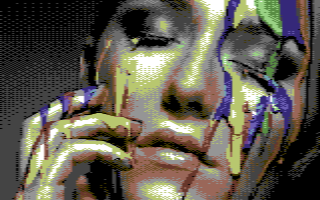
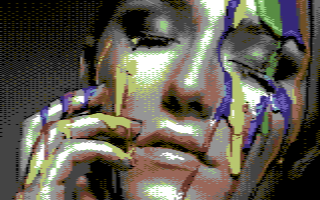
Refactoring for parameterized colorspace. Reverted back to RGB (no conversion of colorspace) Not adding the option to cli because I don't really understand colorspaces yet.

diff --git a/src/conversion/Quantizer.ts b/src/conversion/Quantizer.ts
@@ -1,5 +1,4 @@
 import Palette from '../model/Palette';
-import Pixels from '../model/Pixels';
 
 // https://www.easyrgb.com/en/math.php
 // https://stackoverflow.com/questions/15408522/rgb-to-xyz-and-lab-colours-conversion
@@ -7,35 +6,92 @@ import Pixels from '../model/Pixels';
 // https://www.compuphase.com/cmetric.htm
 // https://godsnotwheregodsnot.blogspot.com/2012/09/color-space-comparisons.html
 // https://en.wikipedia.org/wiki/Color_difference
+// https://bisqwit.iki.fi/jutut/colorquant/
+// https://sistenix.com/rgb2ycbcr.html
+// https://stackoverflow.com/questions/7086820/convert-rgb-to-ycbcr-c-code
 
 /**
  * Maps a color to a palette.
  */
 export default class Quantizer {
   public distance = (onePixel: number[], otherPixel: number[]): number => {
+    const onePixelConverted = this.colorspace(onePixel);
+    const otherPixelConverted = this.colorspace(otherPixel);
+
     return Math.sqrt(
-      (onePixel[0] - otherPixel[0]) ** 2 + (onePixel[1] - otherPixel[1]) ** 2 + (onePixel[2] - otherPixel[2]) ** 2
+      (onePixelConverted[0] - otherPixelConverted[0]) ** 2 +
+        (onePixelConverted[1] - otherPixelConverted[1]) ** 2 +
+        (onePixelConverted[2] - otherPixelConverted[2]) ** 2
     );
   };
 
-  public distanceYUV = (onePixel: number[], otherPixel: number[]): number => {
-    return this.distance(Pixels.toYUV(onePixel), Pixels.toYUV(otherPixel));
+  public colorspace: (pixel: number[]) => number[] = Quantizer.colorspaceRGB;
+
+  // converters from RGB to other colorspace
+  public static colorspaceRGB = (pixel: number[]): number[] => {
+    return pixel;
   };
 
-  public distanceRainbow = (onePixel: number[], otherPixel: number[]): number => {
-    return Math.abs(Pixels.toYUV(onePixel)[0] - Pixels.toYUV(otherPixel)[0]);
+  public static colorspaceRainbow = (pixel: number[]): number[] => {
+    return [Quantizer.colorspaceYUV(pixel)[0], 0, 0];
   };
 
-  public distanceXYZ = (onePixel: number[], otherPixel: number[]): number => {
-    return this.distance(Pixels.sRGBtoXYZ(onePixel), Pixels.sRGBtoXYZ(otherPixel));
+  // SDTV with BT.601
+  // https://en.wikipedia.org/wiki/YUV
+  public static colorspaceYUV = (pixel: number[]): number[] => {
+    return [
+      pixel[0] * 0.299 + pixel[1] * 0.587 + pixel[2] * 0.114,
+      pixel[0] * -0.14713 + pixel[1] * -0.28886 + pixel[2] * 0.436,
+      pixel[0] * 0.615 + pixel[1] * -0.51499 + pixel[2] * -0.10001
+    ];
   };
 
-  public distanceLAB = (onePixel: number[], otherPixel: number[]): number => {
-    return this.distance(Pixels.XYZtoLAB(Pixels.sRGBtoXYZ(onePixel)), Pixels.XYZtoLAB(Pixels.sRGBtoXYZ(otherPixel)));
+  public static colorspaceYCbCr = (pixel: number[]): number[] => {
+    const [r, g, b] = pixel;
+    return [
+      0.299 * r + 0.587 * g + 0.114 * b,
+      -0.16874 * r - 0.33126 * g + 0.5 * b,
+      0.5 * r - 0.41869 * g - 0.08131 * b
+    ];
   };
 
-  // function to measure distance between two pixels
-  public measurer: (onePixel: number[], otherPixel: number[]) => number = this.distanceYUV;
+  public static colorspaceXYZ = (pixel: number[]): number[] => {
+    let r = pixel[0] / 255;
+    let g = pixel[1] / 255;
+    let b = pixel[2] / 255;
+
+    r = r > 0.04045 ? (r = ((r + 0.055) / 1.055) ** 2.4) : r / 12.92;
+    g = g > 0.04045 ? (g = ((g + 0.055) / 1.055) ** 2.4) : g / 12.92;
+    b = b > 0.04045 ? (b = ((b + 0.055) / 1.055) ** 2.4) : b / 12.92;
+
+    r *= 100;
+    g *= 100;
+    b *= 100;
+
+    return [
+      r * 0.4124 + g * 0.3576 + b * 0.1805,
+      r * 0.2126 + g * 0.7152 + b * 0.0722,
+      r * 0.0193 + g * 0.1192 + b * 0.9505
+    ];
+  };
+
+  public static colorspacLAB = (pixel: number[]): number[] => {
+    const xyzPixel = Quantizer.colorspaceXYZ(pixel);
+    const refX = 95.047;
+    const refY = 100.0;
+    const refZ = 108.883;
+    const pow = 1 / 3;
+
+    let x = xyzPixel[0] / refX; // ref_X =  95.047   Observer= 2°, Illuminant= D65
+    let y = xyzPixel[1] / refY; // ref_Y = 100.000
+    let z = xyzPixel[2] / refZ; // ref_Z = 108.883
+
+    x = x > 0.008856 ? x ** pow : 7.787 * x + 16 / 116;
+    y = y > 0.008856 ? y ** pow : 7.787 * y + 16 / 116;
+    z = z > 0.008856 ? z ** pow : 7.787 * z + 16 / 116;
+
+    return [116 * y - 16, 500 * (x - y), 200 * (y - z)];
+  };
 
   /**
    * Get the best match for a pixel from a palette.
@@ -52,7 +108,16 @@ export default class Quantizer {
     // and return just the index.
 
     return palette.pixels
-      .map((palettePixel, index) => [index, this.measurer(pixel, palettePixel)])
+      .map((palettePixel, index) => [index, this.distance(pixel, palettePixel)])
       .reduce((acc, current) => (current[1] < acc[1] ? current : acc), [null, Number.POSITIVE_INFINITY])[0];
   }
+
+  public static colorspaces = {
+    RGB: Quantizer.colorspaceRGB,
+    YUV: Quantizer.colorspaceYUV,
+    Unicorn: Quantizer.colorspaceRainbow,
+    YCbCr: Quantizer.colorspaceYCbCr,
+    XYZ: Quantizer.colorspaceXYZ,
+    LAB: Quantizer.colorspacLAB
+  };
 }

diff --git a/src/model/Pixels.ts b/src/model/Pixels.ts
@@ -19,24 +19,6 @@ export default class Pixels {
     ];
   }
 
-  /**
-   * Convert from an RGB pixel to YUV.
-   * SDTV with BT.601
-   * https://en.wikipedia.org/wiki/YUV
-   * @param  {number[]} pixel The pixel to convert.
-   * @return {number[]}       The result
-   */
-  public static toYUV(pixel: number[]): number[] {
-    if (pixel === undefined) {
-      throw new Error('Pixel is mandatory.');
-    }
-    return [
-      pixel[0] * 0.299 + pixel[1] * 0.587 + pixel[2] * 0.114,
-      pixel[0] * -0.14713 + pixel[1] * -0.28886 + pixel[2] * 0.436,
-      pixel[0] * 0.615 + pixel[1] * -0.51499 + pixel[2] * -0.10001
-    ];
-  }
-
   // HDTV with BT.709
   public static toYUV2(pixel: number[]): number[] {
     if (pixel === undefined) {
@@ -47,44 +29,6 @@ export default class Pixels {
       pixel[0] * -0.09991 + pixel[1] * -0.33609 + pixel[2] * 0.436,
       pixel[0] * 0.615 + pixel[1] * -0.55861 + pixel[2] * -0.05639
     ];
-  }
-
-  // convert standard rgb to XYZ
-  public static sRGBtoXYZ(sRgbPixel: number[]): number[] {
-    let r = sRgbPixel[0] / 255;
-    let g = sRgbPixel[1] / 255;
-    let b = sRgbPixel[2] / 255;
-
-    r = r > 0.04045 ? (r = ((r + 0.055) / 1.055) ** 2.4) : r / 12.92;
-    g = g > 0.04045 ? (g = ((g + 0.055) / 1.055) ** 2.4) : g / 12.92;
-    b = b > 0.04045 ? (b = ((b + 0.055) / 1.055) ** 2.4) : b / 12.92;
-
-    r *= 100;
-    g *= 100;
-    b *= 100;
-
-    return [
-      r * 0.4124 + g * 0.3576 + b * 0.1805,
-      r * 0.2126 + g * 0.7152 + b * 0.0722,
-      r * 0.0193 + g * 0.1192 + b * 0.9505
-    ];
-  }
-
-  public static XYZtoLAB(xyzPixel: number[]): number[] {
-    const refX = 95.047;
-    const refY = 100.0;
-    const refZ = 108.883;
-    const pow = 1 / 3;
-
-    let x = xyzPixel[0] / refX; // ref_X =  95.047   Observer= 2°, Illuminant= D65
-    let y = xyzPixel[1] / refY; // ref_Y = 100.000
-    let z = xyzPixel[2] / refZ; // ref_Z = 108.883
-
-    x = x > 0.008856 ? x ** pow : 7.787 * x + 16 / 116;
-    y = y > 0.008856 ? y ** pow : 7.787 * y + 16 / 116;
-    z = z > 0.008856 ? z ** pow : 7.787 * z + 16 / 116;
-
-    return [116 * y - 16, 500 * (x - y), 200 * (y - z)];
   }
 
   private static cap(pixelChannel: number): number {

diff --git a/cli.js b/cli.js
@@ -83,7 +83,7 @@ function saveDebugMaps(pixelImage) {
 const converter = new retropixels.Converter();
 
 if (cli.unicorn) {
-  converter.poker.quantizer.measurer = converter.poker.quantizer.distanceRainbow;
+  converter.poker.quantizer.colorspace = retropixels.Quantizer.colorspaces.Unicorn;
 }
 
 retropixels.JimpPreprocessor.read(inFile, graphicMode).then(jimpImage => {

diff --git a/src/index.ts b/src/index.ts
@@ -3,3 +3,4 @@ export { default as GraphicModes } from './profiles/GraphicModes';
 export { default as OrderedDither } from './conversion/OrderedDither';
 export { default as C64Writer } from './io/C64Writer';
 export { default as JimpPreprocessor } from './prepost/JimpPreprocessor';
+export { default as Quantizer } from './conversion/Quantizer';
